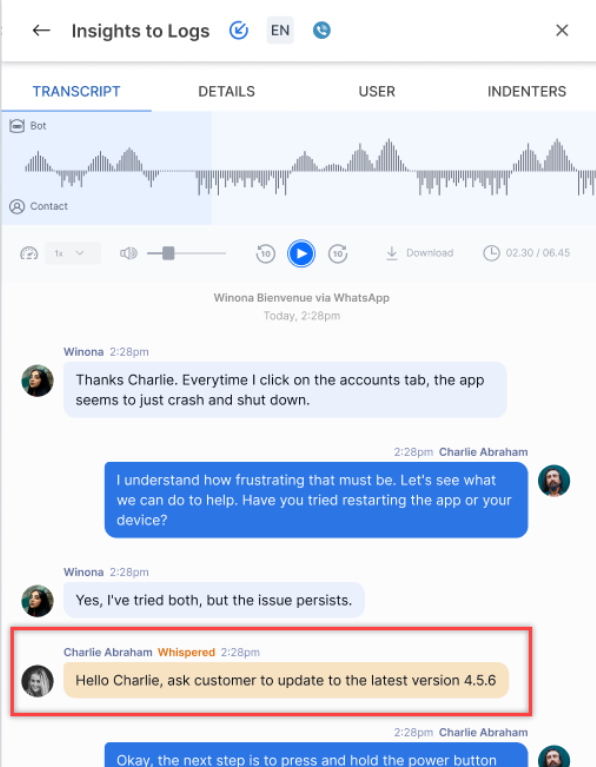
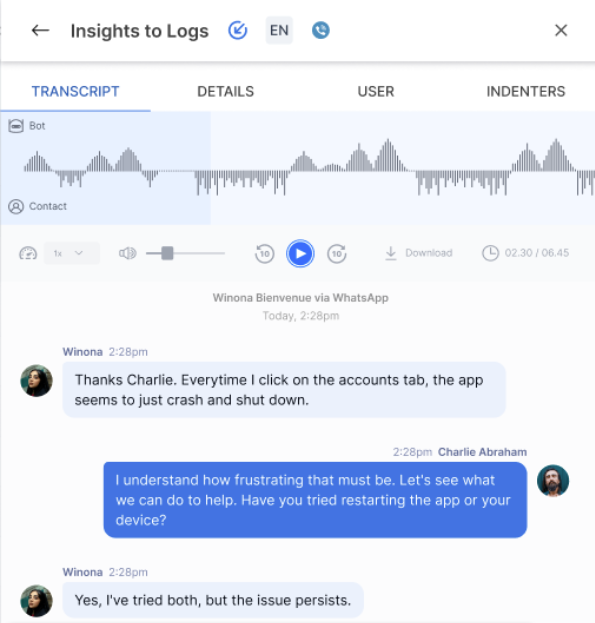
image revised

diff --git a/docs/xo/console/monitor-queues-agents-interactions-service-levels.md b/docs/xo/console/monitor-queues-agents-interactions-service-levels.md
@@ -332,30 +332,6 @@ Steps to Join a conversation:
 
 2. A confirmation pop-up appears. Click **Confirm** to join.
 
-### Listen and Whisper [Voice Calls]
-Listen and Whisper functionalities enhance supervisors’ oversight and support capabilities in real-time voice conversations.
-
-Listen: This allows supervisors to discreetly monitor live voice conversations between agents and customers. By enabling this feature, supervisors can stay informed about ongoing interactions without participating directly, ensuring they are always aware of the dialogue and can step in if necessary.
-
-Whisper: This functionality provides a means for supervisors to give real-time guidance to agents without the customer hearing the communication. Supervisors can use the whisper functionality to offer immediate support or corrective instructions, enhancing the agent’s performance and the overall quality of customer interaction.
-
-Steps to Listen and Whisper Voice Conversations:
-
-1. Go to **MONITOR** > **AGENTS** > Click the conversation that you want to Listen to & Whisper.  
-<img src="../images/listen-and-whisper-button.png" alt="Voice Conversation" title="Voice Conversation" style="border: 1px solid gray; zoom:70%;">
-
-2. Click **Listen & Whisper**.  
-<img src="../images/voice-conversation-agents-tab.png" alt="Listen & Whisper Button" title="Listen & Whisper Button" style="border: 1px solid gray; zoom:70%;">
-
-3. You can listen to the conversation between the customer and the agent. Press and hold the spacebar to whisper to the agent.  
-<img src="../images/listen-conversation.png" alt="Listen Conversation" title="Listen Conversation" style="border: 1px solid gray; zoom:70%;">
-
-4. Release the spacebar to stop whispering to the agent.  
-<img src="../images/release-spacebar.png" alt="Release Spacebar" title="Release Spacebar" style="border: 1px solid gray; zoom:70%;">
-
-    When a supervisor whispers, an indication appears at the top of the live interaction, and the transcript is displayed in yellow.  
-    <img src="../images/console-whisper-input.png" alt="Console Whisper Input" title="Console Whisper Input" style="border: 1px solid gray; zoom:70%;">
-
 ## Interactions
 
 You can view all live interactions on the Contact Center AI console. This view includes only interactions that involve agent transfers. A summary of the interactions view is shown below:  

diff --git a/docs/xo/release-notes/11.x/contact-center-ai.md b/docs/xo/release-notes/11.x/contact-center-ai.md
@@ -31,26 +31,6 @@ Agents now have more flexibility and validation options when dialing outbound ca
 
 [Learn more :octicons-arrow-right-24:](../../console/interacting-with-customers.md#outbound-dialer)
 
-#### Enhanced Supervisor Capabilities: Listen and Whisper for Voice Calls
-
-This update introduces real-time monitoring and intervention features for supervisors during voice calls. The features significantly enhance supervisory capabilities, allowing agents to provide more effective and immediate assistance during customer interactions.
-
-**Key updates**:
-
-* Listen Functionality:
-    * A silent listening functionality, allowing supervisors to monitor agents' voice calls without causing disruptions on the agents' end.
-* Whisper Functionality:
-    * Private voice instruction/guidance from supervisor to agent.
-    * The customer cannot hear the supervisor's input.
-* User Interface Integration:
-    * New "Listen" and "Whisper" options on the Monitor tab
-    * Easy-to-access controls for quick intervention.
-* Chat Transcript:
-    * Whisper inputs are recorded in a different color.
-    * Labeled with supervisor name and timestamp.
-
-[Learn more :octicons-arrow-right-24:](../../console/monitor-queues-agents-interactions-service-levels.md#listen-and-whisper-voice-calls)
-
 ### Configuration
 
 #### New Permission for Sentiment Visibility Control
